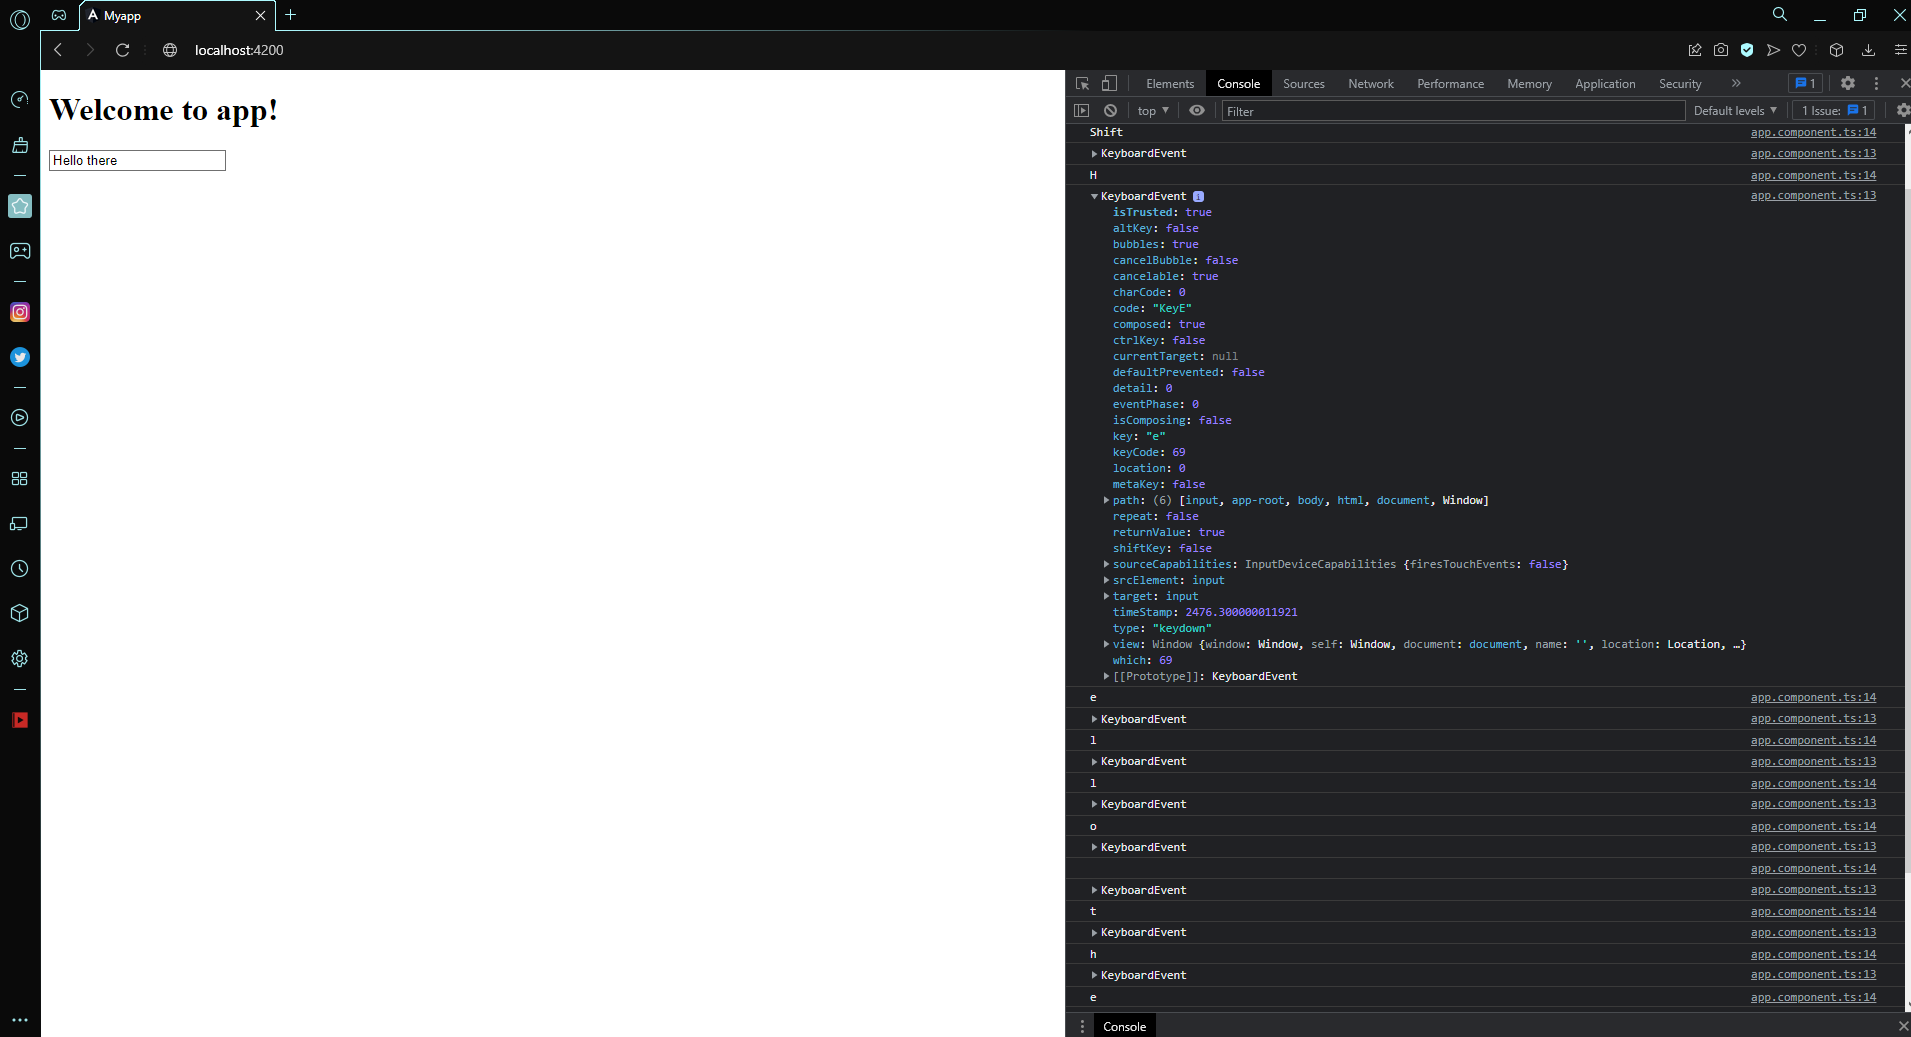
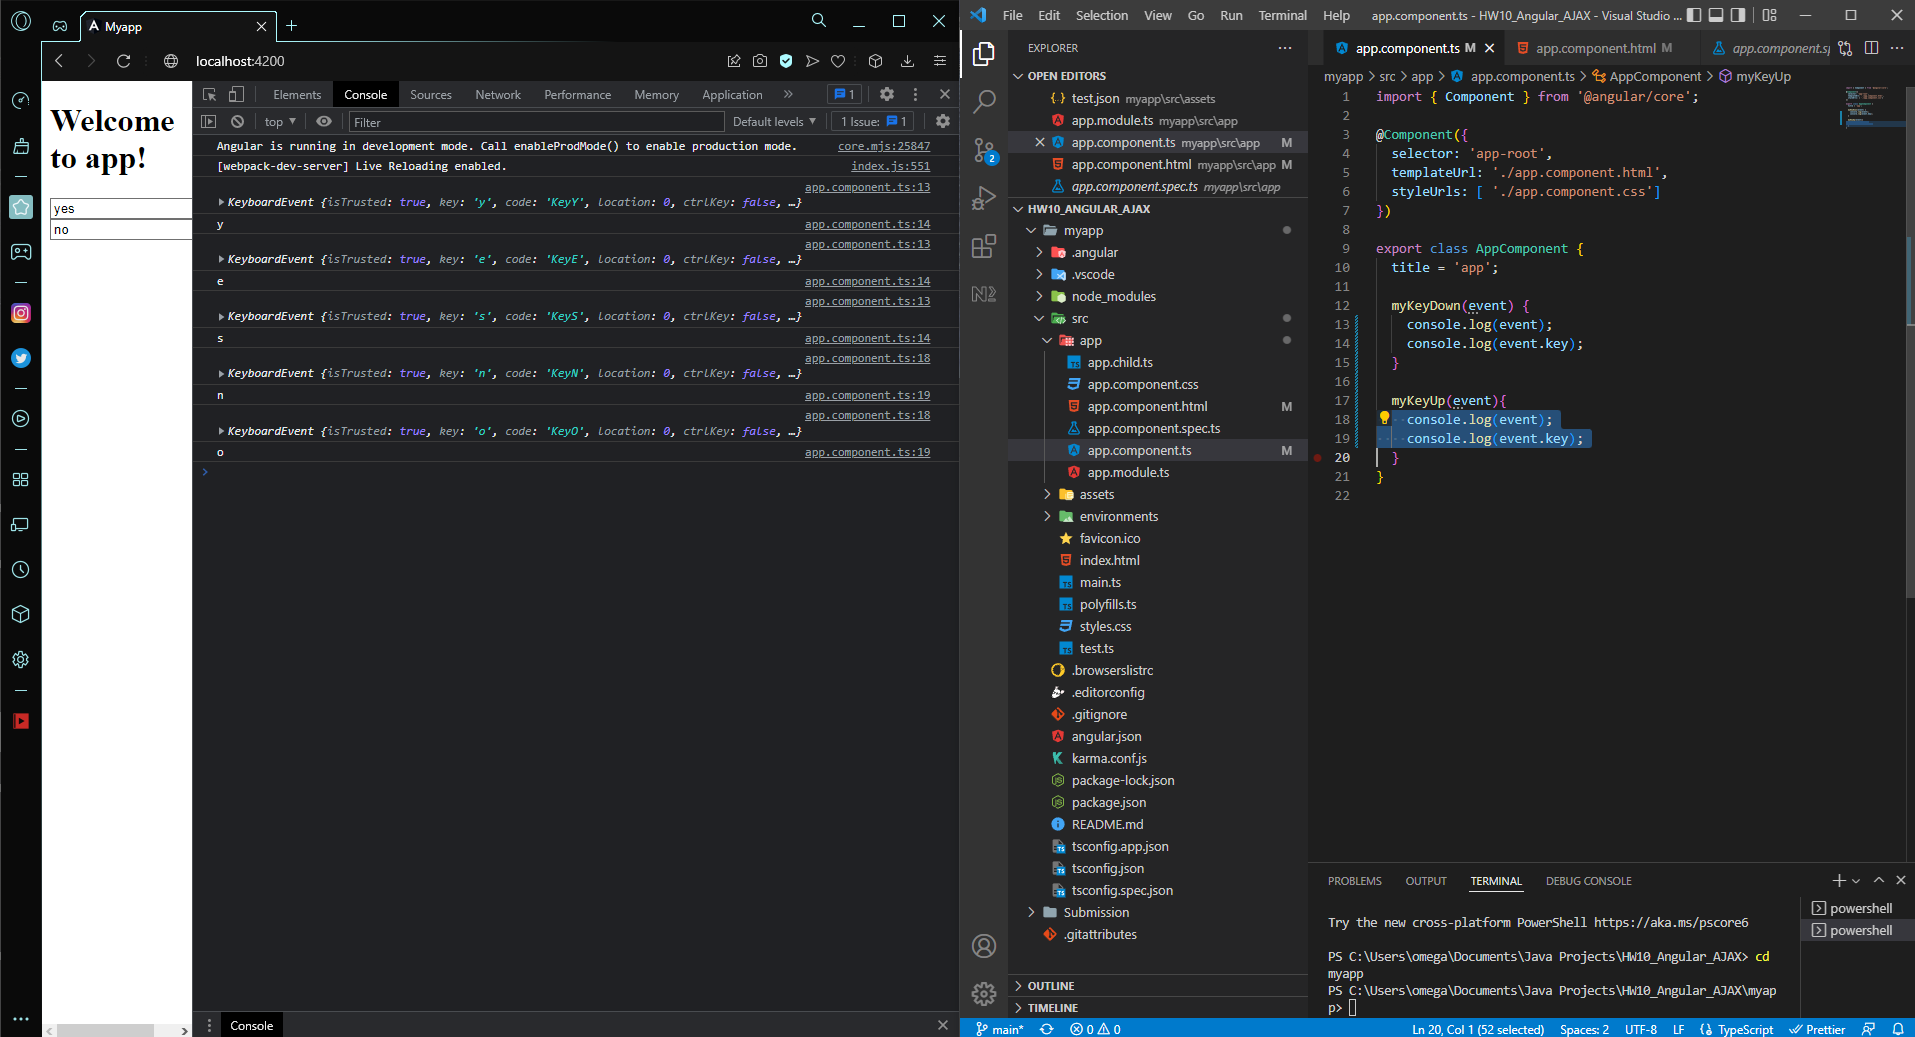
Change previous screenshot to exercise 5 and upload exercise 6

diff --git a/myapp/src/app/app.component.ts b/myapp/src/app/app.component.ts
@@ -10,7 +10,12 @@ export class AppComponent {
   title = 'app';
 
   myKeyDown(event) {
-    console.log(event)
-    console.log(event.key)
+    console.log(event);
+    console.log(event.key);
+  }
+
+  myKeyUp(event){
+    console.log(event);
+    console.log(event.key);
   }
 }

diff --git a/myapp/src/app/app.component.html b/myapp/src/app/app.component.html
@@ -1,2 +1,4 @@
 <h1>Welcome to {{title}}!</h1>
 <input type='text' (keydown)="myKeyDown($event)">
+<br>
+<input type='text' (keyup)="myKeyUp($event)">
